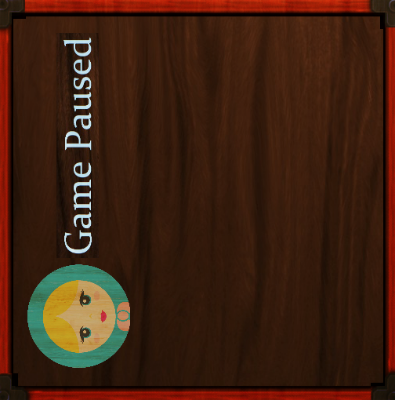
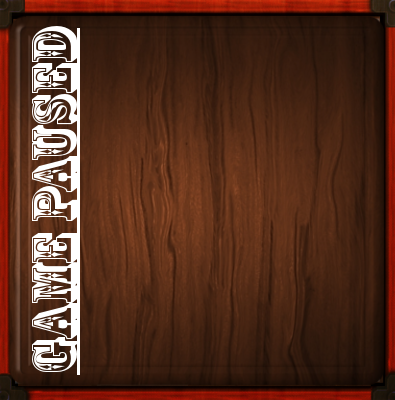
Pause Screen and selection menu assets
updated the pause menu so its ready to be implemented into the play
screen. Has quit and back functionality
added some assets for the selection/stack menu. most are final but
whipped up some basic icons for pieces so i can test layout and
selection

diff --git a/SampleGame/core/src/com/mygdx/screens/PauseScreen.java b/SampleGame/core/src/com/mygdx/screens/PauseScreen.java
@@ -34,15 +34,15 @@ public class PauseScreen
         declerations = new Declerations();
         declerations.initPauseScreen();
 
-        textButtonStyle = new TextButton.TextButtonStyle[4];
-        textButtons = new TextButton[4];
+        textButtonStyle = new TextButton.TextButtonStyle[3];
+        textButtons = new TextButton[3];
 
-        for(int i=0; i<4; i++)
+        for(int i=0; i<3; i++)
         {
             textButtonStyle[i] = new TextButton.TextButtonStyle();
         }
 
-        pauseScreenImage = new Image(declerations.pauseSkin[4],"pauseScreen");
+        pauseScreenImage = new Image(declerations.pauseSkin[5],"pauseScreen");
         pauseScreenImage.setSize(SampleGame.V_WIDTH,SampleGame.V_HEIGHT);
         pauseScreenImage.setBounds( (SampleGame.V_WIDTH /2) - 100, (SampleGame.V_HEIGHT/2) - 75, SampleGame.V_WIDTH /2, SampleGame.V_HEIGHT/2);
 
@@ -52,22 +52,19 @@ public class PauseScreen
         textButtonStyle[0].checked =  declerations.pauseSkin[0].getDrawable("pauseButtonPressed");
 
         textButtonStyle[1].font = declerations.font;
-        textButtonStyle[1].up = declerations.pauseSkin[1].getDrawable("resumeUnSelected");
-        textButtonStyle[1].down = declerations.pauseSkin[1].getDrawable("resumeSelected");
-        textButtonStyle[1].checked = declerations.pauseSkin[1].getDrawable("resumeSelected");
+        textButtonStyle[1].up = declerations.pauseSkin[1].getDrawable("backButtonUnpressed");
+        textButtonStyle[1].down = declerations.pauseSkin[2].getDrawable("backButtonPresed");
+        textButtonStyle[1].checked = declerations.pauseSkin[2].getDrawable("backButtonPresed");
 
         textButtonStyle[2].font = declerations.font;
-        textButtonStyle[2].up = declerations.pauseSkin[2].getDrawable("mainMenuUnSelected");
-        textButtonStyle[2].down = declerations.pauseSkin[2].getDrawable("mainMenuSelected");
-        textButtonStyle[2].checked = declerations.pauseSkin[2].getDrawable("mainMenuSelected");
-
-        textButtonStyle[3].font = declerations.font;
-        textButtonStyle[3].up = declerations.pauseSkin[3].getDrawable("infoButon");
-        textButtonStyle[3].down = declerations.pauseSkin[3].getDrawable("infoButon");
-        textButtonStyle[3].checked = declerations.pauseSkin[3].getDrawable("infoButon");
+        textButtonStyle[2].up = declerations.pauseSkin[3].getDrawable("quitButtonUnpressed");
+        textButtonStyle[2].down = declerations.pauseSkin[4].getDrawable("quitButtonPresed");
+        textButtonStyle[2].checked = declerations.pauseSkin[4].getDrawable("quitButtonPresed");
 
 
-        for(int i=0; i<4; i++)
+
+
+        for(int i=0; i<3; i++)
         {
             textButtons[i] = new TextButton("", textButtonStyle[i]);
         }
@@ -75,20 +72,13 @@ public class PauseScreen
         textButtons[0].setBounds(10,230,40,40);
         textButtons[1].setBounds(250,80,30,90);
         textButtons[2].setBounds(300,80,30,90);
-        textButtons[3].setBounds(15,200,30,30);
+
 
         stage.addActor(textButtons[0]);
-        stage.addActor(textButtons[3]);
 
 
-        textButtons[3].addListener(new ChangeListener()
-        {
-            @Override
-            public void changed(ChangeEvent event, Actor actor)
-            {
-                ((Game) Gdx.app.getApplicationListener()).setScreen(new MainMenu(app));
-            }
-        });
+
+
     }
 
 

diff --git a/SampleGame/core/src/com/mygdx/util/Declerations.java b/SampleGame/core/src/com/mygdx/util/Declerations.java
@@ -35,7 +35,7 @@ public class Declerations
 
     public static Skin playerSkin[];
     public static Skin pauseSkin[];
-
+    public static Skin stackSkin[];
 
 
 
@@ -93,14 +93,58 @@ public class Declerations
     //initalize the pause screen items
     public void initPauseScreen()
     {
-        pauseSkin = new Skin[5];
+        pauseSkin = new Skin[6];
 
-        for(int i=0; i<5; i++)
+        for(int i=0; i<=5; i++)
         {
             pauseSkin[i] = new Skin();
-            pauseSkin[i].addRegions(buttonAtlas);
+
         }
-        pauseSkin[4].add("pauseScreen", new Texture("pauseScreen/pauseScreen.png"));
+
+
+        pauseSkin[0].addRegions(buttonAtlas);
+        pauseSkin[1].add("backButtonUnpressed", new Texture("pauseScreen/backButtonUnpressed.png"));
+        pauseSkin[2].add("backButtonPresed", new Texture("pauseScreen/backButtonPresed.png"));
+        pauseSkin[3].add("quitButtonUnpressed", new Texture("pauseScreen/quitButtonUnpressed.png"));
+        pauseSkin[4].add("quitButtonPresed", new Texture("pauseScreen/quitButtonPresed.png"));
+        pauseSkin[5].add("pauseScreen", new Texture("pauseScreen/pauseScreen.png"));
+    }
+
+    public void initStackScreen()
+    {
+        stackSkin = new Skin[15];
+
+        for(int i=0; i<16; i++)
+        {
+            stackSkin[i] = new Skin();
+
+        }
+
+        stackSkin[0].add("selectBackground", new Texture("stackMenu/selectBackground.png"));//background
+
+        stackSkin[1].add("roadUnselected", new Texture("stackMenu/roadUnselected.png"));//road unselected
+        stackSkin[2].add("roadSelected", new Texture("stackMenu/roadSelected.png"));//road selected
+
+        stackSkin[3].add("wallUnselected", new Texture("stackMenu/wallUnselected.png"));//wall unselected
+        stackSkin[4].add("wallSelected", new Texture("stackMenu/wallSelected.png"));//wall selected
+
+        stackSkin[5].add("capUnselected", new Texture("stackMenu/capUnselected.png"));//capstone unselected
+        stackSkin[6].add("capSelected", new Texture("stackMenu/capSelected.png"));//capstone selected
+
+        stackSkin[7].add("upButtonPressed", new Texture("stackMenu/upButtonPressed.png"));//upButton UnPressed
+        stackSkin[8].add("upButtonUnpressed", new Texture("stackMenu/upButtonUnpressed.png"));//upButton Pressed
+
+        stackSkin[9].add("downButtonUnpressed", new Texture("stackMenu/downButtonUnpressed.png"));//downButton UnPressed
+        stackSkin[10].add("downButtonPressed", new Texture("stackMenu/downButtonPressed.png"));//downButton Pressed
+
+        stackSkin[11].add("selectButtonUnpressed", new Texture("stackMenu/selectButtonUnpressed.png"));//selectButton UnPressed
+        stackSkin[12].add("selectButtonPressed", new Texture("stackMenu/selectButtonPressed.png"));//selectButton Pressed
+
+        stackSkin[13].add("backButtonUnpresed", new Texture("stackMenu/backButtonUnpresed.png"));//backButton UnPressed
+        stackSkin[14].add("backButtonPresed", new Texture("stackMenu/backButtonPresed.png"));//backButton Pressed
+
+
+
     }
 
     //initalize the challenge screen items

diff --git a/SampleGame/core/src/com/mygdx/screens/StackScreen.java b/SampleGame/core/src/com/mygdx/screens/StackScreen.java
@@ -1,0 +1,56 @@
+package com.mygdx.screens;
+
+
+import com.badlogic.gdx.Game;
+import com.badlogic.gdx.Gdx;
+import com.badlogic.gdx.scenes.scene2d.Actor;
+import com.badlogic.gdx.scenes.scene2d.Stage;
+import com.badlogic.gdx.scenes.scene2d.ui.Image;
+import com.badlogic.gdx.scenes.scene2d.ui.TextButton;
+import com.badlogic.gdx.scenes.scene2d.utils.ChangeListener;
+
+import com.mygdx.game.SampleGame;
+import com.mygdx.util.Declerations;
+//import com.seg3125.project.Declerations;
+
+//import com.seg3125.project.GameApp;
+
+public class StackScreen
+{
+    private SampleGame app;
+    private Stage stage;
+    private Image pauseScreenImage;
+
+    private TextButton.TextButtonStyle textButtonStyle[];
+    private TextButton textButtons[];
+
+    private Declerations declerations;
+
+    public StackScreen(SampleGame gameApp, Stage appStage)
+    {
+        app = gameApp;
+        stage = appStage;
+
+        declerations = new Declerations();
+        declerations.initPauseScreen();
+
+        textButtonStyle = new TextButton.TextButtonStyle[3];
+        textButtons = new TextButton[3];
+
+
+
+
+    }
+
+
+    public void selectionOptions()
+    {
+
+
+    }
+
+    public void returnToGame()
+    {
+
+    }
+}

diff --git a/SampleGame/core/src/com/mygdx/screens/PlayScreen.java b/SampleGame/core/src/com/mygdx/screens/PlayScreen.java
@@ -47,6 +47,7 @@ public class PlayScreen implements Screen
 
     //calls the PauseScreen and declerations class
     private PauseScreen pauseScreen;
+    private StackScreen stackScreen;
     private Declerations declerations;
 
     public PlayScreen(SampleGame gameApp)
@@ -83,6 +84,12 @@ public class PlayScreen implements Screen
         pauseScreen = new PauseScreen(app,stage);
         pauseScreen.returnToMainMenu();
         pauseScreen.returnToGame();
+
+        stackScreen = new StackScreen(app,stage);
+        stackScreen.selectionOptions();
+        stackScreen.returnToGame();
+
+
 
 
         //initialize the images

diff --git a/SampleGame/core/src/com/mygdx/screens/Versus.java b/SampleGame/core/src/com/mygdx/screens/Versus.java
@@ -140,7 +140,7 @@ public class Versus implements Screen
             @Override
             public void changed (ChangeEvent event, Actor actor)
             {
-
+                ((Game) Gdx.app.getApplicationListener()).setScreen(new PlayScreen(app));
 
 
             }
@@ -163,7 +163,7 @@ public class Versus implements Screen
             public void changed (ChangeEvent event, Actor actor)
             {
                 stageSize = 3;
-                System.out.println(stageSize);
+               // System.out.println(stageSize);
 
             }
         });
